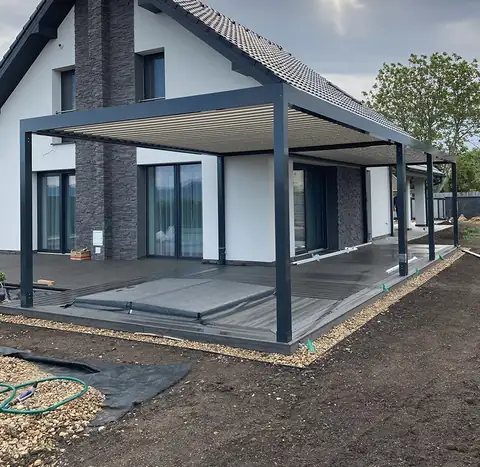
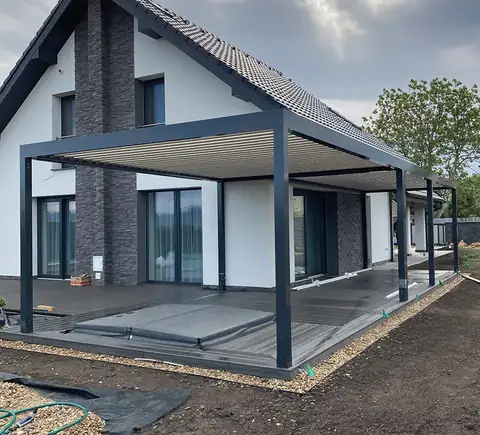
Kadr zdjecia na telefonie bez placu budowy

diff --git a/index.html b/index.html
@@ -93,7 +93,7 @@ p{margin:0}
 @media (max-width:860px){
   .hero{display:flex;flex-direction:column;min-height:calc(100svh - var(--hh))}
   .hero .ph{position:relative;flex:1 1 0;min-height:clamp(150px,30svh,560px)}
-  .hero .ph img{position:absolute;inset:0;object-position:50% 30%}
+  .hero .ph img{position:absolute;inset:0;object-position:50% 40%}
   .hero .txt{position:relative;padding:clamp(20px,3.4svh,32px) 16px clamp(16px,2.8svh,28px);width:100%;background:var(--ant)}
   .hero .txt::before{content:"";position:absolute;left:16px;top:-9px;width:120px;height:18px;background:repeating-linear-gradient(90deg,var(--zie) 0 5px,transparent 5px 11px);transform:skewX(-24deg);transform-origin:0 100%}
   .hero h1{font-size:clamp(1.62rem,7.4vw,2.6rem);line-height:1.04;max-width:none}
@@ -289,7 +289,7 @@ footer .bot{margin-top:40px;padding-top:20px;border-top:1px solid rgba(255,255,2
 <section class="hero" aria-label="PergoleOgrody.pl">
   <div class="ph">
     <picture>
-      <source media="(max-width:860px)" srcset="img/hero-m-480.webp 480w, img/hero-m-760.webp 760w" sizes="100vw" width="760" height="740">
+      <source media="(max-width:860px)" srcset="img/hero-m-480.webp 480w, img/hero-m-760.webp 760w" sizes="100vw" width="760" height="689">
       <img src="img/hero-1440.webp" srcset="img/hero-960.webp 960w, img/hero-1440.webp 1440w, img/hero-1600.webp 1600w" sizes="100vw" width="1600" height="899" fetchpriority="high" decoding="async" alt="Pergola z lamelami w kolorze antracytu nad tarasem domu jednorodzinnego">
     </picture>
   </div>
